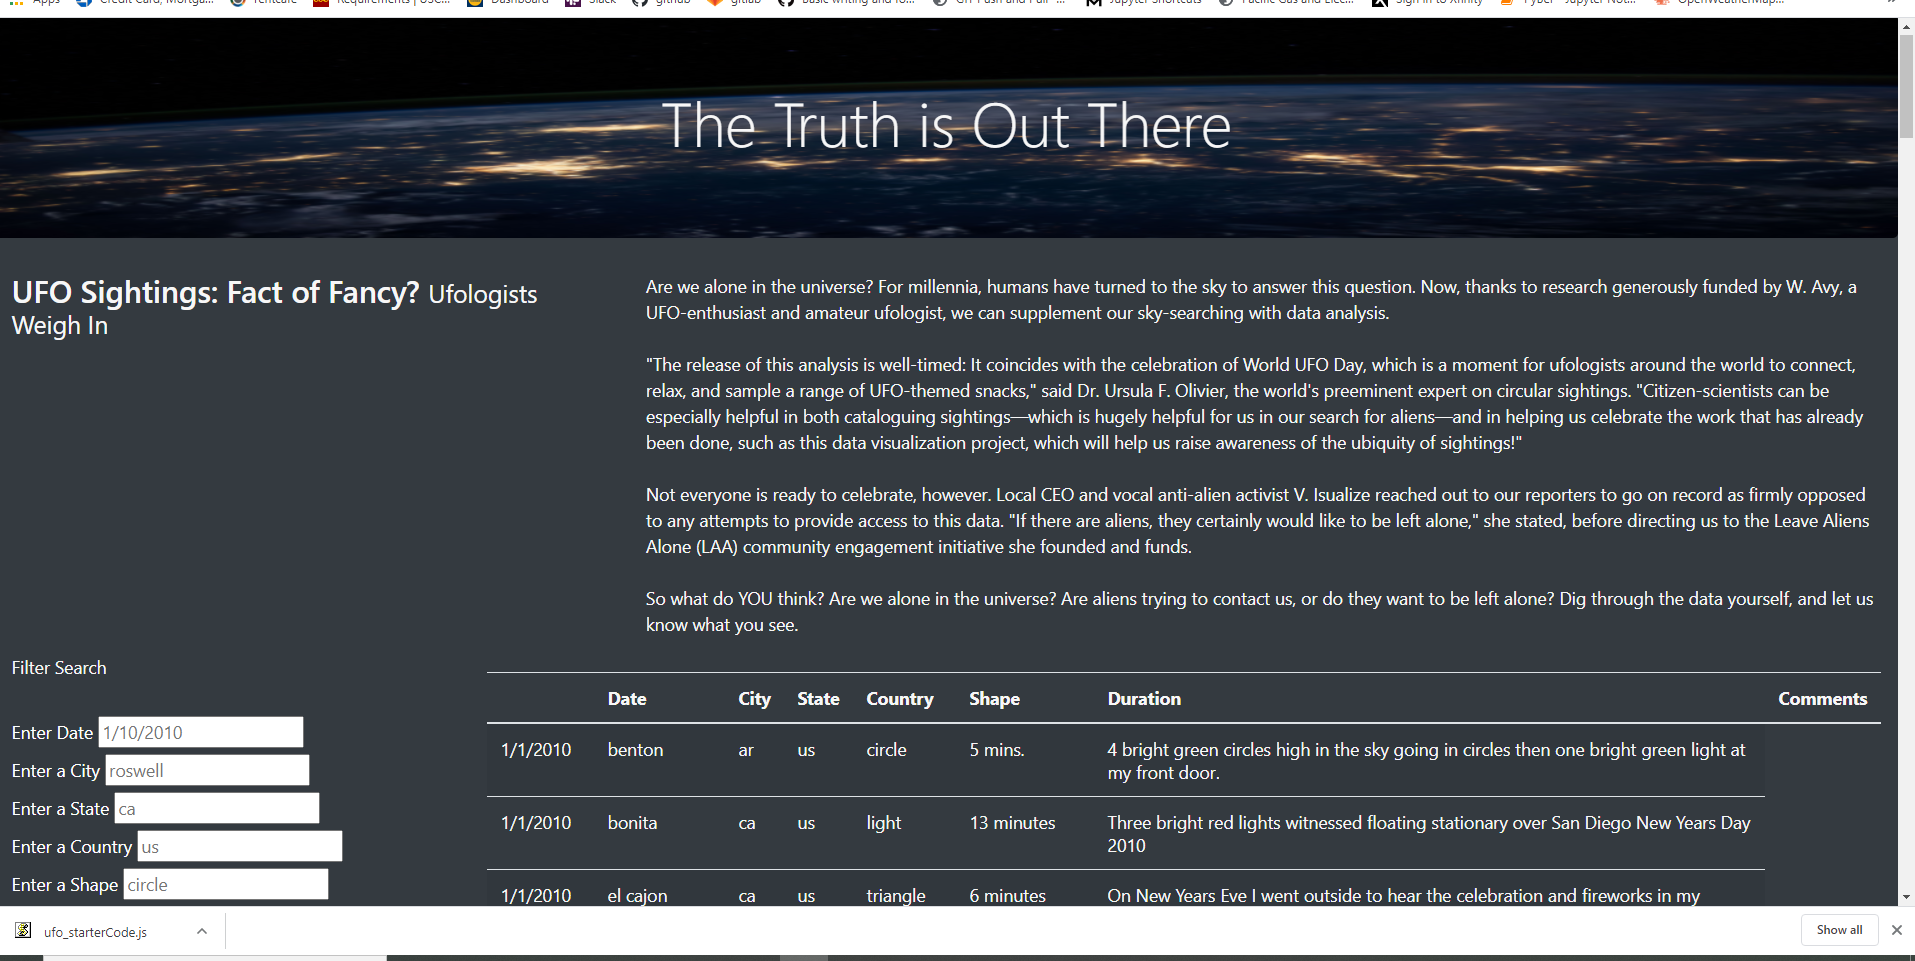
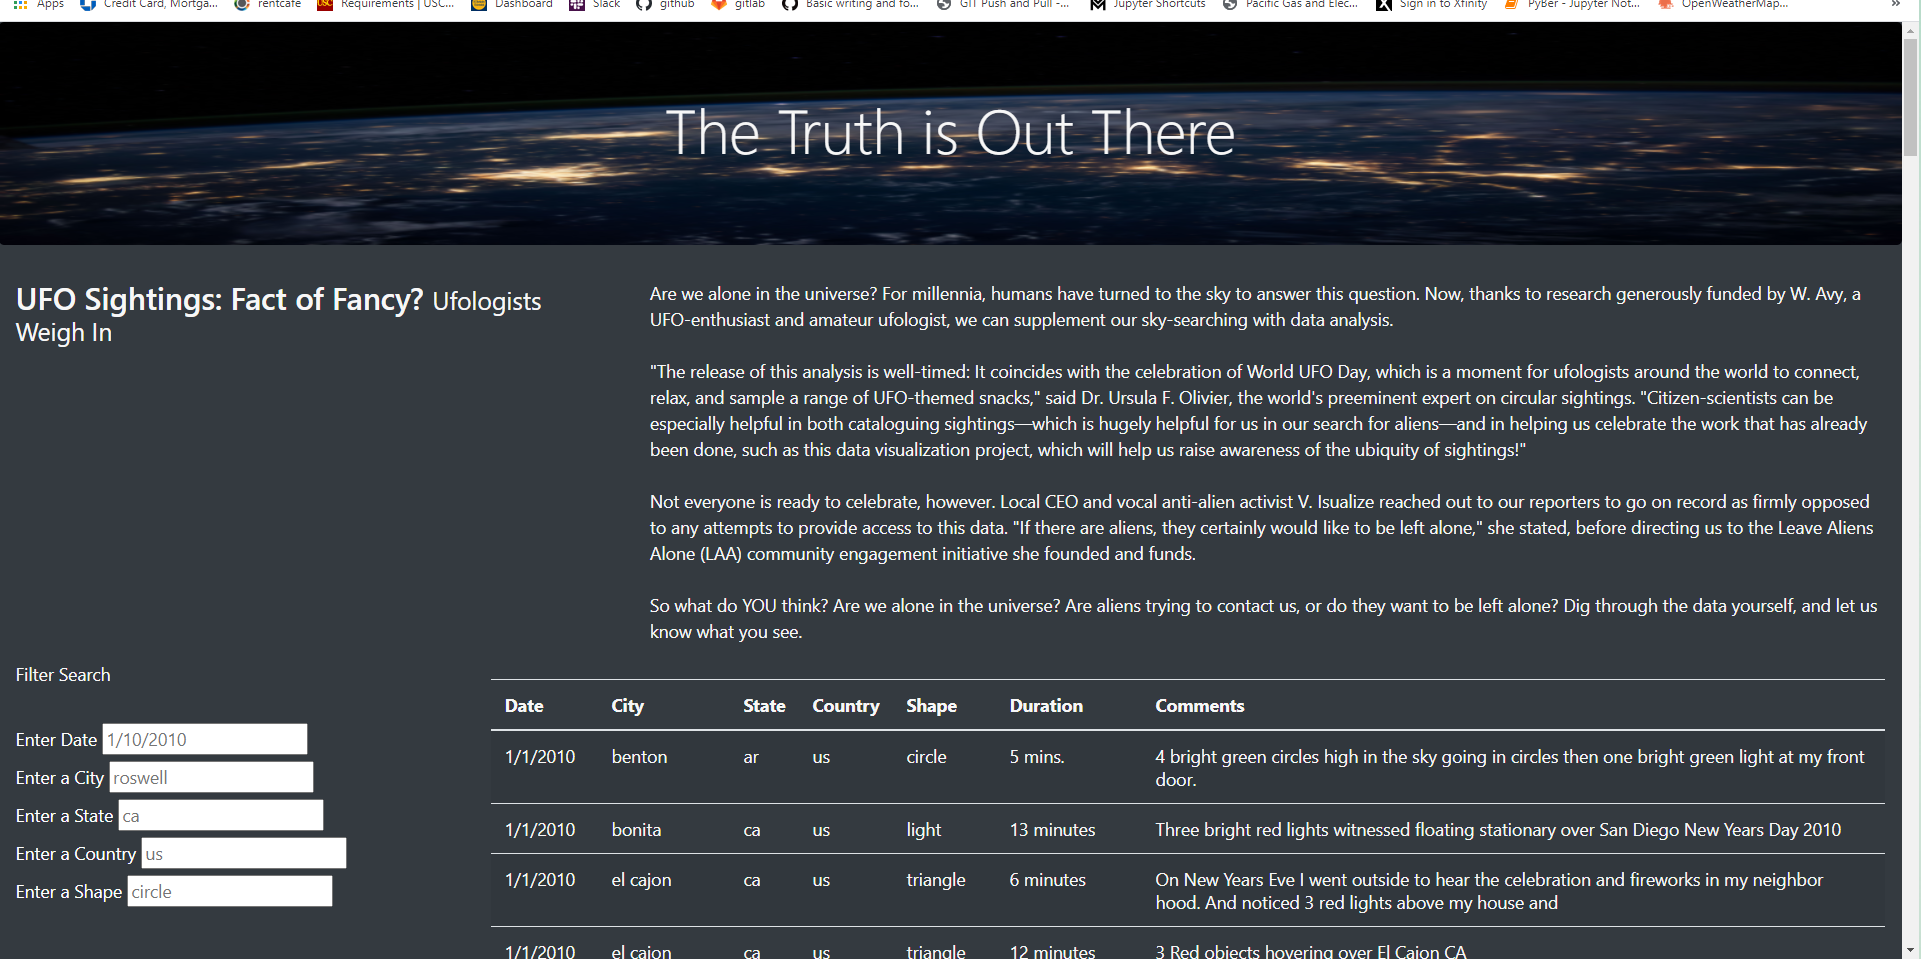
challange edit

Changed region(s): [[0.0, 0.0, 1.0, 1.0]]

diff --git a/UFO Finder.html b/UFO Finder.html
@@ -35,6 +35,7 @@
 
             </form>
           </ul>
+          
           <li class="list-group-item; btn-dark" style="list-style-type:none">
             <label for="date">Enter Date</label>
             <input type="text" placeholder="1/10/2010" id="datetime" />
@@ -60,7 +61,7 @@
 
           <li class="list-group-item; btn-dark" style="list-style-type:none">
             <label for="shape">Enter a Shape</label>
-            <input type="text" placeholder="circle" id="datetime" />
+            <input type="text" placeholder="circle" id="shape" />
           </li>
 
         
@@ -72,15 +73,13 @@
         <table class="table table-striped">
             <thead>
               <tr>
-                <th>
-                    <th>Date</th>
-                    <th>City</th>
-                    <th>State</th>
-                    <th>Country</th>
-                    <th>Shape</th>
-                    <th>Duration</th>
-                    <th>Comments</th>
-                </th>
+                <th>Date</th>
+                <th>City</th>
+                <th>State</th>
+                <th>Country</th>
+                <th>Shape</th>
+                <th>Duration</th>
+                <th>Comments</th>            
               </tr>
             </thead>
             <tbody>
